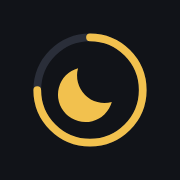
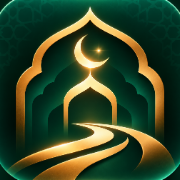
أَوْب: شعار التطبيق الصحيح كأيقونة (كان ينكتب فوگه بالغلط)، والشعار والاسم داخل الترويسة
Claude-Session: https://claude.ai/code/session_013SQG1saESvdfHfUHxfLu2h

diff --git a/links/salah/index.html b/links/salah/index.html
@@ -56,7 +56,11 @@ body::before{content:"";position:fixed;top:0;left:0;right:0;bottom:0;z-index:-3;
 .i{width:1.15em;height:1.15em;vertical-align:-.2em;flex:none}
 .n{direction:ltr;unicode-bidi:isolate;font-variant-numeric:tabular-nums}
 header{text-align:center;flex:none;position:relative}
-.tk{display:block;height:clamp(34px,7.2vh,76px);aspect-ratio:435/238;margin:0 auto;background:var(--ink);-webkit-mask:url(takbir.png) center/contain no-repeat;mask:url(takbir.png) center/contain no-repeat}
+.brand{display:flex;align-items:center;justify-content:center;gap:10px;margin:0 46px}
+.brand img{width:clamp(40px,6.4vh,56px);height:clamp(40px,6.4vh,56px);border-radius:26%;box-shadow:0 6px 16px rgba(0,0,0,.3)}
+.brand div{text-align:start;line-height:1.25}
+.brand b{display:block;font-size:clamp(20px,3.2vh,27px);color:var(--acc)}
+.brand span{display:block;font-size:clamp(11.5px,1.65vh,13.5px);font-weight:500;color:var(--soft)}
 header p{white-space:nowrap;overflow:hidden;text-overflow:ellipsis;font-size:clamp(12px,1.9vh,15px);color:var(--soft);margin-top:.2vh}
 header p b{color:var(--ink);font-size:1.15em}
 .inst{display:none;position:absolute;top:0;right:0;width:38px;height:38px;padding:0;border-radius:50%;align-items:center;justify-content:center;background:linear-gradient(160deg,var(--gold),var(--gold2));color:var(--dark);box-shadow:0 6px 18px rgba(242,193,78,.35)}
@@ -246,7 +250,7 @@ body.wait #list,body.wait .ow,body.wait .row{opacity:.25}
  <g fill="var(--s2)"><path d="M92 190V78h4V62l4-12 4 12v16h4v112zM292 190V78h4V62l4-12 4 12v16h4v112z"/><path d="M88 104h24v6H88zM288 104h24v6h-24z"/><path d="M128 190v-58h18v-6a54 54 0 0 1 108 0v6h18v58z"/><path d="M198 72V54h4v18z"/><circle cx="200" cy="50" r="5"/><path d="M128 132a14 14 0 0 1 28 0zM244 132a14 14 0 0 1 28 0z"/></g>
  <g fill="var(--s3)"><path d="M0 190v-26h44v-8a13 13 0 0 1 26 0v8h260v-8a13 13 0 0 1 26 0v8h44v26z"/><path d="M182 190v-26a18 18 0 0 1 36 0v26z" opacity=".55"/></g>
 </svg>
-<header><button class="inst" id="inst" aria-label="ثبّت التطبيق على الشاشة"><svg viewBox="0 0 24 24" fill="none" stroke="currentColor" stroke-width="2.4" stroke-linecap="round"><rect x="3.5" y="3.5" width="17" height="17" rx="4.5"/><path d="M12 8v8M8 12h8"/></svg></button><button id="gear" data-open="s-set" aria-label="الإعدادات"><svg><use href="#i-gear"/></svg></button><div class="tk" role="img" aria-label="الله أكبر"></div><p><button id="city" data-open="s-loc"></button></p><p id="date"></p></header>
+<header><button class="inst" id="inst" aria-label="ثبّت التطبيق على الشاشة"><svg viewBox="0 0 24 24" fill="none" stroke="currentColor" stroke-width="2.4" stroke-linecap="round"><rect x="3.5" y="3.5" width="17" height="17" rx="4.5"/><path d="M12 8v8M8 12h8"/></svg></button><button id="gear" data-open="s-set" aria-label="الإعدادات"><svg><use href="#i-gear"/></svg></button><div class="brand"><img src="icon-192.png" alt=""><div><b data-en="AWB">أَوْب</b><span data-en="The way back to Allah">طريق العودة إلى الله</span></div></div><p><button id="city" data-open="s-loc"></button></p><p id="date"></p></header>
 
 <section id="today" class="on">
  <div class="ow"><div class="orb">
@@ -391,7 +395,7 @@ body.wait #list,body.wait .ow,body.wait .row{opacity:.25}
 <script src="learn.js"></script>
 <script>
 (function(){
-var VERSION='26';
+var VERSION='27';
 var $=function(i){return document.getElementById(i)};
 // اللغة: المحفوظة، وإذا ماكو فلغة الجهاز (عربي أو إنگليزي). تتبدل من الإعدادات والصفحة تنعاد
 var LANG=/^ar/i.test(navigator.language||'ar')?'ar':'en';try{var s0=JSON.parse(localStorage.getItem('set'));if(s0&&s0.lang)LANG=s0.lang}catch(e){}

diff --git a/links/salah/sw.js b/links/salah/sw.js
@@ -1,5 +1,5 @@
 // يخلي التطبيق يشتغل بدون إنترنت. بوجود الإنترنت ياخذ أحدث نسخة دائماً، وبدونه يرجّع النسخة المحفوظة
-const C = 'salah-v26', FILES = ['./', 'data.js', 'adhkar.js', 'learn.js', 'calc.js', 'fonts/amiri.woff2', 'fonts/ui-500.woff2', 'fonts/ui-700.woff2', 'fonts/ui-num.woff2', 'manifest.webmanifest', 'icon-180.png', 'icon-192.png', 'icon-512.png', 'takbir.png'];
+const C = 'salah-v27', FILES = ['./', 'data.js', 'adhkar.js', 'learn.js', 'calc.js', 'fonts/amiri.woff2', 'fonts/ui-500.woff2', 'fonts/ui-700.woff2', 'fonts/ui-num.woff2', 'manifest.webmanifest', 'icon-180.png', 'icon-192.png', 'icon-512.png', 'takbir.png'];
 self.addEventListener('install', e => e.waitUntil(caches.open(C).then(c => c.addAll(FILES)).then(() => self.skipWaiting())));
 // من تتفعل نسخة جديدة فوگ نسخة قديمة: نمسح المحفوظ القديم ونعيد تحميل أي صفحة مفتوحة، حتى النسخ القديمة الي ما تعرف تحدّث نفسها
 self.addEventListener('activate', e => e.waitUntil(caches.keys().then(ks => {
